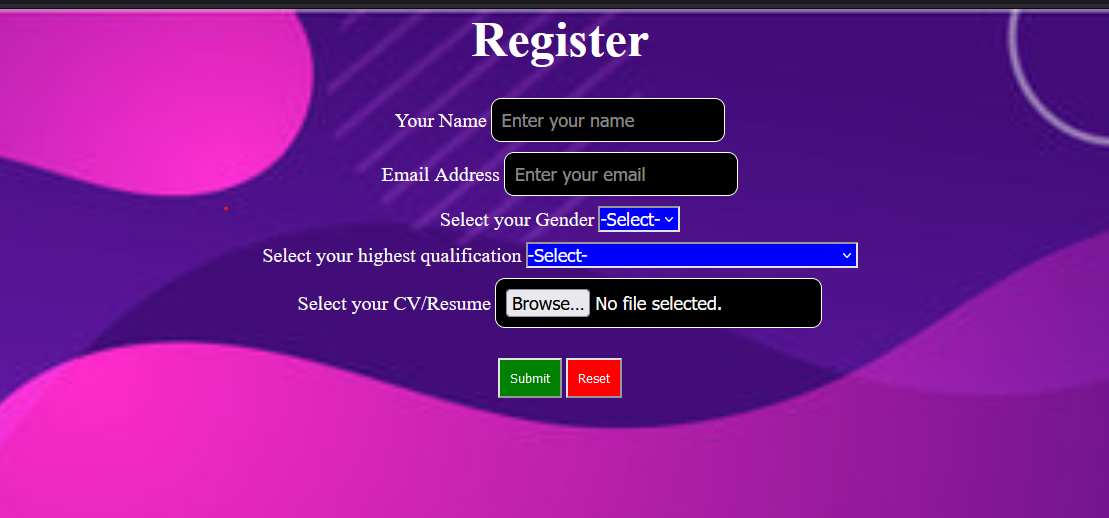
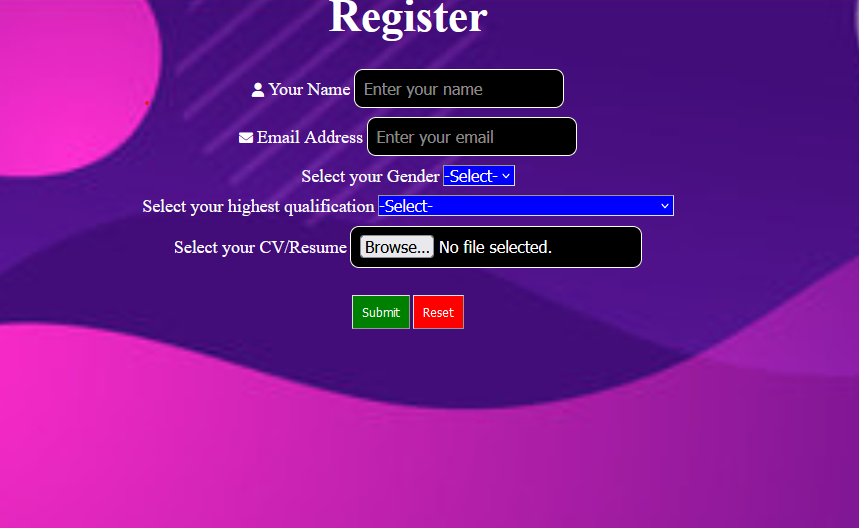
updated code

diff --git a/css/job_registration/index.html b/css/job_registration/index.html
@@ -8,6 +8,7 @@
     <link rel="stylesheet" href="style.css">
     <link rel="stylesheet"
         href="https://fonts.googleapis.com/css2?family=Inter:wght@200;300;400;500;600&family=Poppins:wght@500&display=swap">
+    <script src="https://kit.fontawesome.com/3efd231502.js" crossorigin="anonymous"></script>
 </head>
 
 <body>
@@ -15,10 +16,13 @@
         <h1>Register</h1>
         <form>
             <div class="input-group">
+                <!-- solid style -->
+                <i class="fa-solid fa-user"></i>
                 <label for="name">Your Name</label>
                 <input type="text" id="name" placeholder="Enter your name" required>
             </div>
             <div class="input-group">
+                <i class="fa-solid fa-envelope"></i>
                 <label for="email">Email Address</label>
                 <input type="email" id="email" placeholder="Enter your email" required>
             </div>
